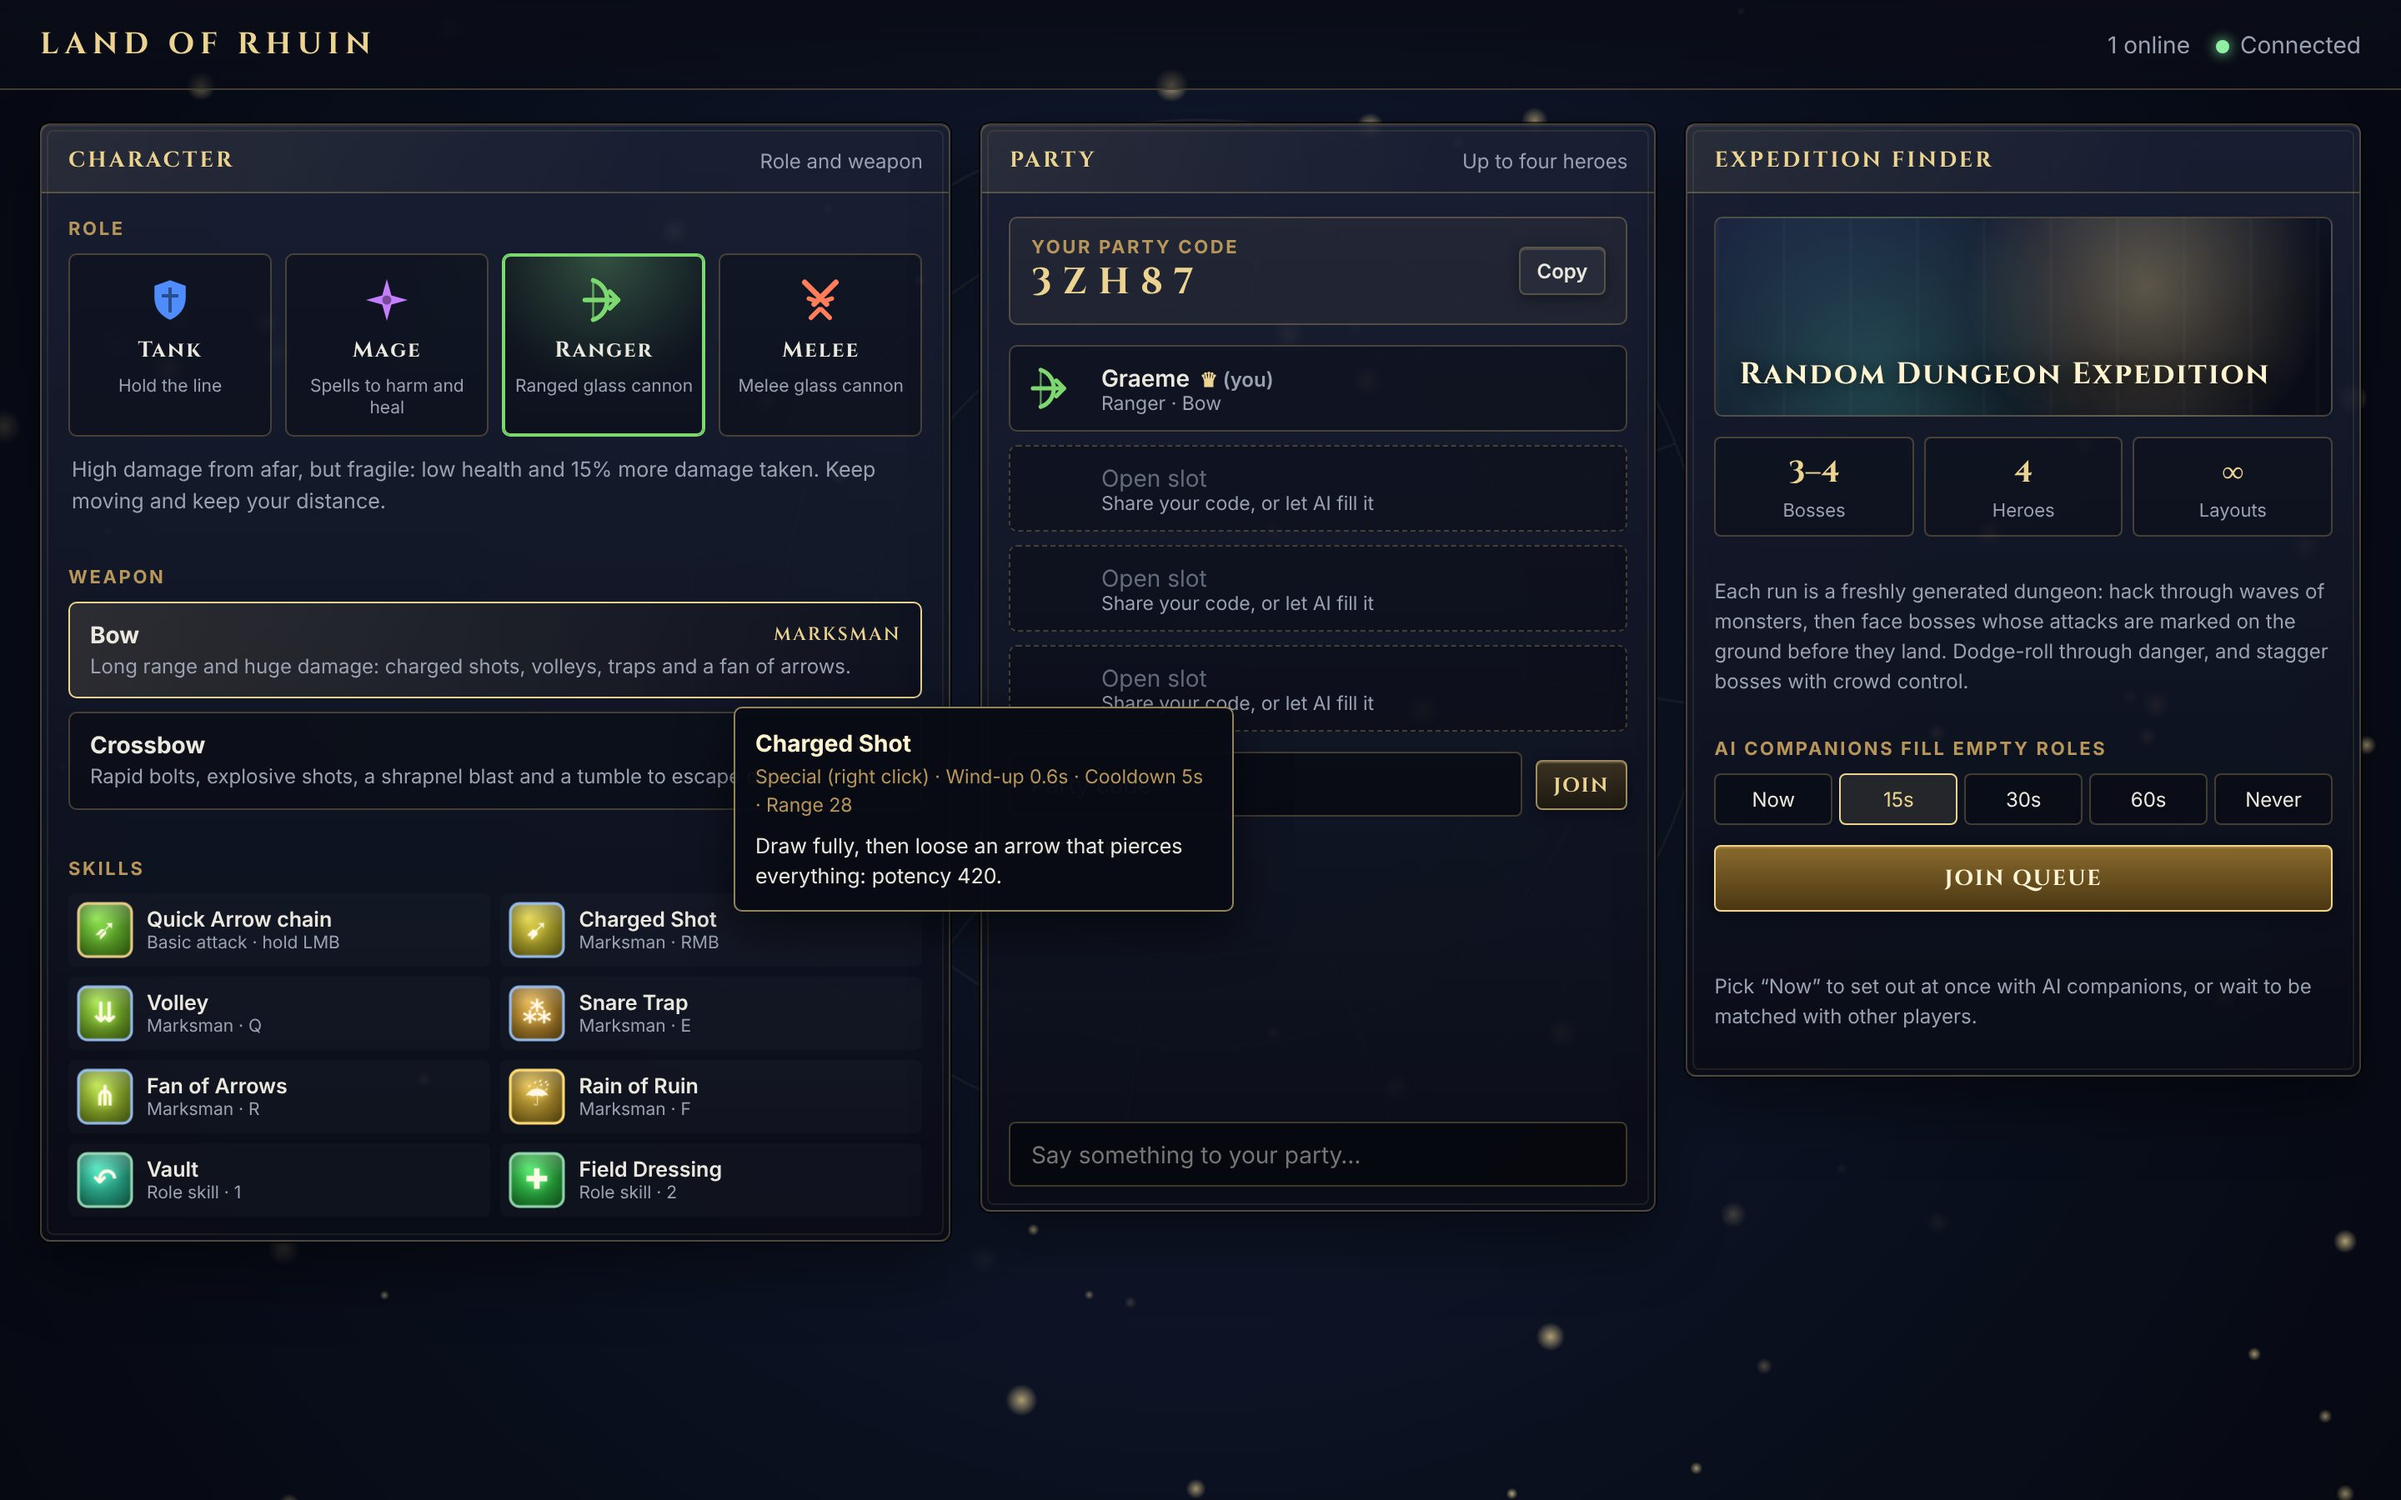
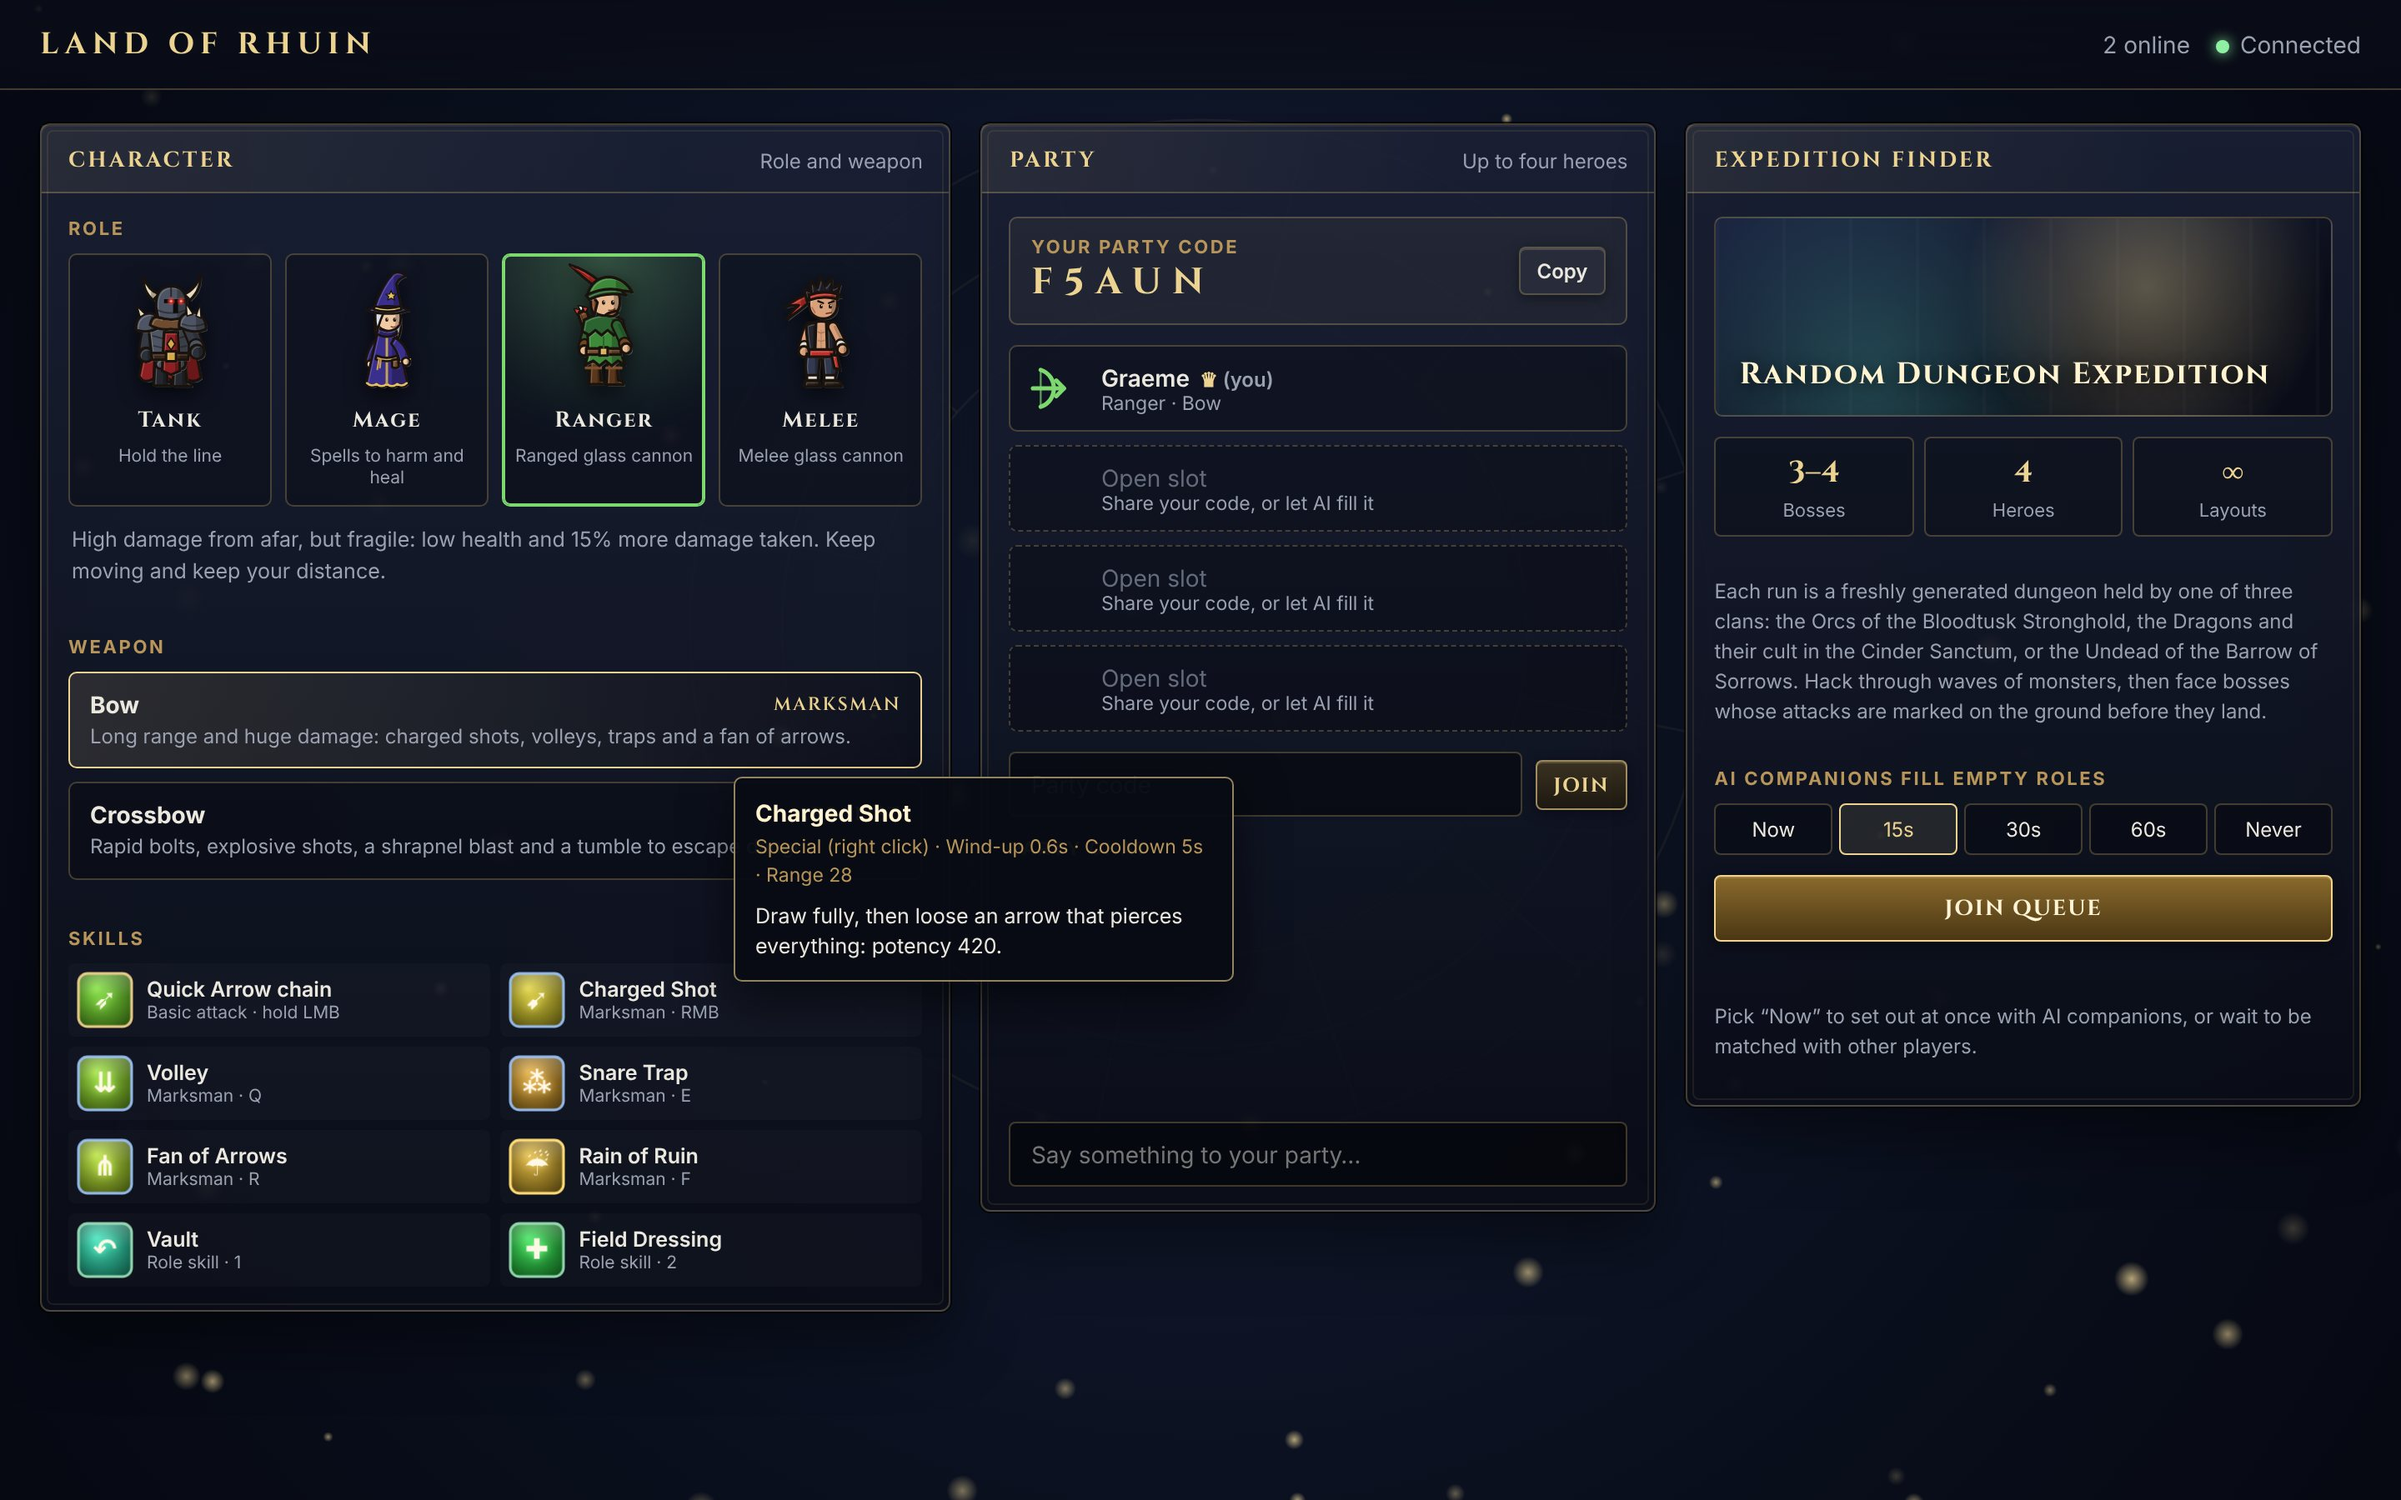
README: heroes and clans section, bestiary sheet and per-clan screenshots
Claude-Session: https://claude.ai/code/session_01PGbyV5ggZzqgFPyt3tnswL

diff --git a/README.md b/README.md
@@ -1,16 +1,19 @@
 # Land of Rhuin
 
 A four-player co-op hack-and-slash dungeon RPG that runs in the browser. Form a party of four (Tank,
-Mage, Ranger and Melee) and carve through a dungeon generated fresh for every run. Each run has
-waves of monsters, then 3 or 4 bosses whose attacks are marked on the ground before they land.
-Players queue together or alone, and AI companions fill any role nobody is playing.
+Mage, Ranger and Melee) and carve through a dungeon generated fresh for every run. Every dungeon
+belongs to one of three monster clans: **Orcs**, **Dragons and their cultists**, or the **Undead**.
+Each run has waves of monsters, then 3 or 4 bosses whose attacks are marked on the ground before
+they land. Players queue together or alone, and AI companions fill any role nobody is playing.
 
 Combat is aimed and hands-on. Hold the mouse to swing your weapon's combo, fire skills toward the
 cursor, and dodge-roll through danger. The dungeon structure takes its cues from big fantasy MMO
 dungeons: a finder queue with a ready check, enmity and taunts, sealed boss arenas, and orange
 telegraphs to step out of. All names, art, skills and bosses are original.
 
-![A trash fight: arrows, an arcane orb, an interrupt, and the ultimate ready on the hotbar](docs/screenshots/fight.jpg)
+![Fighting Mother Zhura, Bone Seer, in an Orc stronghold](docs/screenshots/orc-boss.jpg)
+
+![The title screen with the four heroes](docs/screenshots/title.jpg)
 
 ## Quick start
 
@@ -35,6 +38,7 @@ it into **Party code** and press **Join**. The party leader then joins the queue
 | `--host 127.0.0.1` | Interface to listen on. Use `0.0.0.0` for LAN play. |
 | `--quick` | Monsters have a quarter of their health. Good for trying things out. |
 | `--countdown 5` | Seconds before the entrance barrier drops. |
+| `--clan orc` | Make every dungeon belong to one clan: `orc`, `dragon` or `undead`. |
 
 For development, `npm run dev` runs the server with reload on port 8787 and the Vite client on
 http://localhost:5173 (it forwards the game socket to the server).
@@ -98,9 +102,37 @@ without a Staff gets the *Ward of Rhuin*: 15% less damage taken and a slow heal 
 In AI-only test runs, Melee deals about 1,500 damage per second, Rangers about 1,150, Mages
 about 750 to 800 and Tanks about 500.
 
+## Heroes and clans
+
+Every character is an illustrated sprite: a horned dark knight for the Tank, a robed wizard in a
+pointy hat for the Mage, a Robin Hood archer for the Ranger, and a lean headband brawler for the
+Melee. Heroes hold their weapon toward your aim and swing it when they attack. Characters bob as
+they walk, lean into their strikes, flash when hit, and fall when knocked out.
+
+Each dungeon is the lair of one clan, with its own monsters, bosses, rooms, colours and floor:
+
+| Clan | Dungeon | Monsters | Bosses |
+| --- | --- | --- | --- |
+| **Orcs** | The Bloodtusk Stronghold: torchlit earth, bones, blood and stakes | Orc Brute, Goblin Cutthroat, Orc Archer, Orc Shaman, Orc Ravager, War Totem | Grukk the Skullsplitter, Mother Zhura the Bone Seer, Gnashtusk the War Boar, Old Ironjaw the Ogre, and Warlord Krognar |
+| **Dragons** | The Cinder Sanctum: obsidian, glowing lava cracks and drifting embers | Drakonid Warrior, Wyrmling, Cult Crossbowman, Flamecaller Cultist, Fire Drake, Dragon Idol | Scalebreaker Vorth, High Priestess Seraphine, Ashwing the Wyvern, the Obsidian Guardian, and Ignaroth the Elder Flame |
+| **Undead** | The Barrow of Sorrows: cold stone, graves, cobwebs and green mist | Skeleton Warrior, Ghoul, Skeleton Archer, Necromancer, Bone Abomination, Cursed Obelisk | Sir Morgrave the Death Knight, Lich Vessanthe, Grimmaw the Bone Hound, the Wailing Warden, and Mortheus the Dread King |
+
+![Every hero, monster and boss, drawn to scale](docs/screenshots/bestiary.jpg)
+
+| Orcs | Dragons | Undead |
+| --- | --- | --- |
+| ![An orc stronghold fight](docs/screenshots/orc-fight.jpg) | ![A fight in the Cinder Sanctum](docs/screenshots/dragon-fight.jpg) | ![A fight in the Barrow of Sorrows](docs/screenshots/undead-fight.jpg) |
+| ![An orc boss](docs/screenshots/orc-boss.jpg) | ![A dragon clan boss](docs/screenshots/dragon-boss.jpg) | ![An undead boss](docs/screenshots/undead-boss.jpg) |
+
+The sprites are drawn in code as SVG from a small kit of outlined, shaded parts, so they stay sharp
+at any zoom. They live in `src/client/art/`.
+
 ## How a run works
 
 1. **Lobby.** Choose a role and one of its weapons. Hover a skill to read what it does.
+
+   ![The lobby: role and weapon, party, and the expedition finder](docs/screenshots/lobby.jpg)
+
 2. **Party.** Everyone starts in their own party with a 5-letter code. Up to four players can
    join one party, and each member needs a different role to queue.
 3. **Queue.** The leader picks when AI companions fill empty roles: now, after 15, 30 or 60
@@ -147,7 +179,7 @@ Getting hit by an avoidable attack adds *Vulnerability Up*: 25% more damage take
 ```
 src/shared/      Rules both sides use: constants, geometry, the tile map with collision, line of
                  sight and A* pathfinding, the network protocol, and the content (roles, weapons,
-                 skills, statuses, monsters, bosses, themes).
+                 skills, statuses, monsters, bosses, clans).
 src/server/      Node.js server.
   dungeonGen.ts  Seeded dungeon generator.
   sim/           The dungeon simulation: instance (rooms, waves, gates, wipes), combat (aimed
@@ -160,6 +192,7 @@ src/server/      Node.js server.
   main.ts        HTTP server for the client and the WebSocket at /ws.
 src/client/      Browser client (TypeScript and canvas, no framework).
   ui/            Title screen and lobby.
+  art/           Sprite art: the SVG drawing kit, heroes, and the clans' monsters and bosses.
   game/          World state, renderer, HUD, effects, input and prediction.
 test/            Unit tests and full dungeon runs.
 e2e/             Browser test with two players.
@@ -195,8 +228,8 @@ honest: AI parties clear a dungeon in about 8 to 11 minutes.
 
 - Gear and rewards from bosses, and character progression between runs.
 - Accounts and saved characters (players are currently kept in memory by the server).
-- Sound and music, and hand-drawn art and animation in place of the vector shapes.
+- Sound and music, and frame-by-frame animation for the sprites.
 - Gamepad support.
-- More themes, bosses and mechanics (towers to soak, tethers, line stacks, gaze attacks).
+- More clans, bosses and mechanics (towers to soak, tethers, line stacks, gaze attacks).
 - A harder difficulty and a timed leaderboard.
 - Rate limiting and stricter validation before running a public server.
